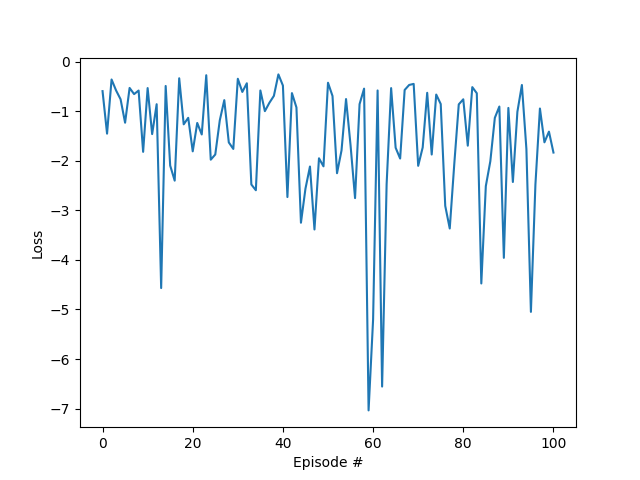
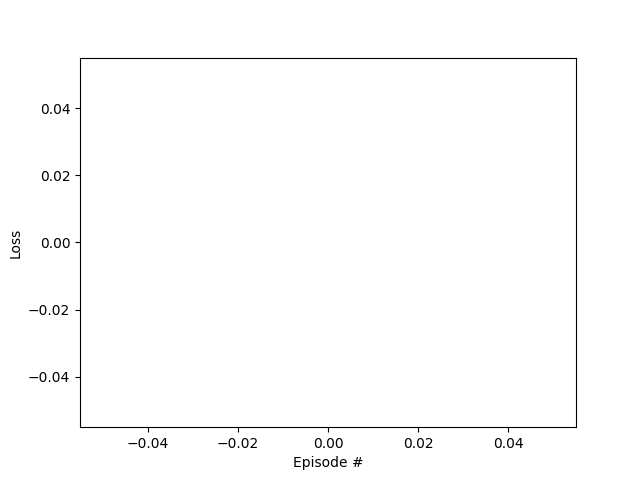
fixing the probs

diff --git a/src/primaite/agents/aegis/policies/git_policy.py b/src/primaite/agents/aegis/policies/git_policy.py
@@ -44,7 +44,7 @@ class GITPolicy(nn.Module):
 
         # For tracking episode rewards and probs
         self.roll_out = []
-        self.ge_optimizer = Adam(self.ge.parameters(), lr=ge_learning_rate)
+        self.optimizer = Adam(self.parameters(), lr=ge_learning_rate)
 
     def put_data(self, data):
         self.roll_out.append(data)
@@ -91,21 +91,34 @@ class GITPolicy(nn.Module):
 
         G = np.array(G)
         G_mean = G.mean()
-        G_std = G.std()
+        G_std = G.std() + 1e-8 # add small episilon to avoid div by 0
 
         # Reset gradients
-        self.ge_optimizer.zero_grad()
+        self.optimizer.zero_grad()
 
         # Calculate loss for the episode and do backprop
+        total_loss = 0
         for r, prob in self.roll_out[::-1]:
             R = r + gamma * R
-            loss = -prob * ((R - G_mean) / G_std)
-            loss.backward()
+            for p in prob:
+                loss = -p * ((R - G_mean) / G_std)
+                total_loss += loss
+            
+        total_loss.backward()
+        print('Total loss:', total_loss)
+        for name, param in self.named_parameters():
+            print(f"Gradient of {name}: {param.grad}")
 
-        self.ge_optimizer.step()
+        # What are the gradients saying?
+        # Print gradients
+        # print('Total loss:', total_loss)
+        # for name, param in self.named_parameters():
+            # print(f"Gradient of {name}: {param.grad}")
+        
+        self.optimizer.step()
 
         # Get average reward and reset rollout
         mean_reward = np.mean([rew[0] for rew in self.roll_out])
         self.roll_out = []
 
-        return loss.cpu().detach().numpy(), mean_reward
+        return total_loss.cpu().detach().numpy(), mean_reward

diff --git a/src/primaite/agents/aegis/modules/llm.py b/src/primaite/agents/aegis/modules/llm.py
@@ -1,6 +1,5 @@
 import torch
-from transformers import BitsAndBytesConfig
-from transformers import AutoTokenizer
+from transformers import BitsAndBytesConfig, AutoTokenizer
 from trl import PPOTrainer, PPOConfig, AutoModelForCausalLMWithValueHead
 from peft.tuners.lora import LoraConfig
 from typing import List, Tuple, Dict
@@ -127,7 +126,6 @@ class LLM(torch.nn.Module):
 
             # Get logits
             logits = next_token_embs[0][:, -1, :]
-
             # Apply restriction on the output logits (or don't)
             if restrict_output:
                 token_id, prob = self._filter_logits(

diff --git a/src/primaite/agents/git_agent.py b/src/primaite/agents/git_agent.py
@@ -231,6 +231,8 @@ class GITAgent(AgentSessionABC):
 
                 action, probs = self._calculate_action(obs)
                 obs, rewards, done, _ = self._env.step(action=action)
+                
+                print('probs:', probs)
                 self._agent.put_data((rewards, probs))
 
                 steps += 1
